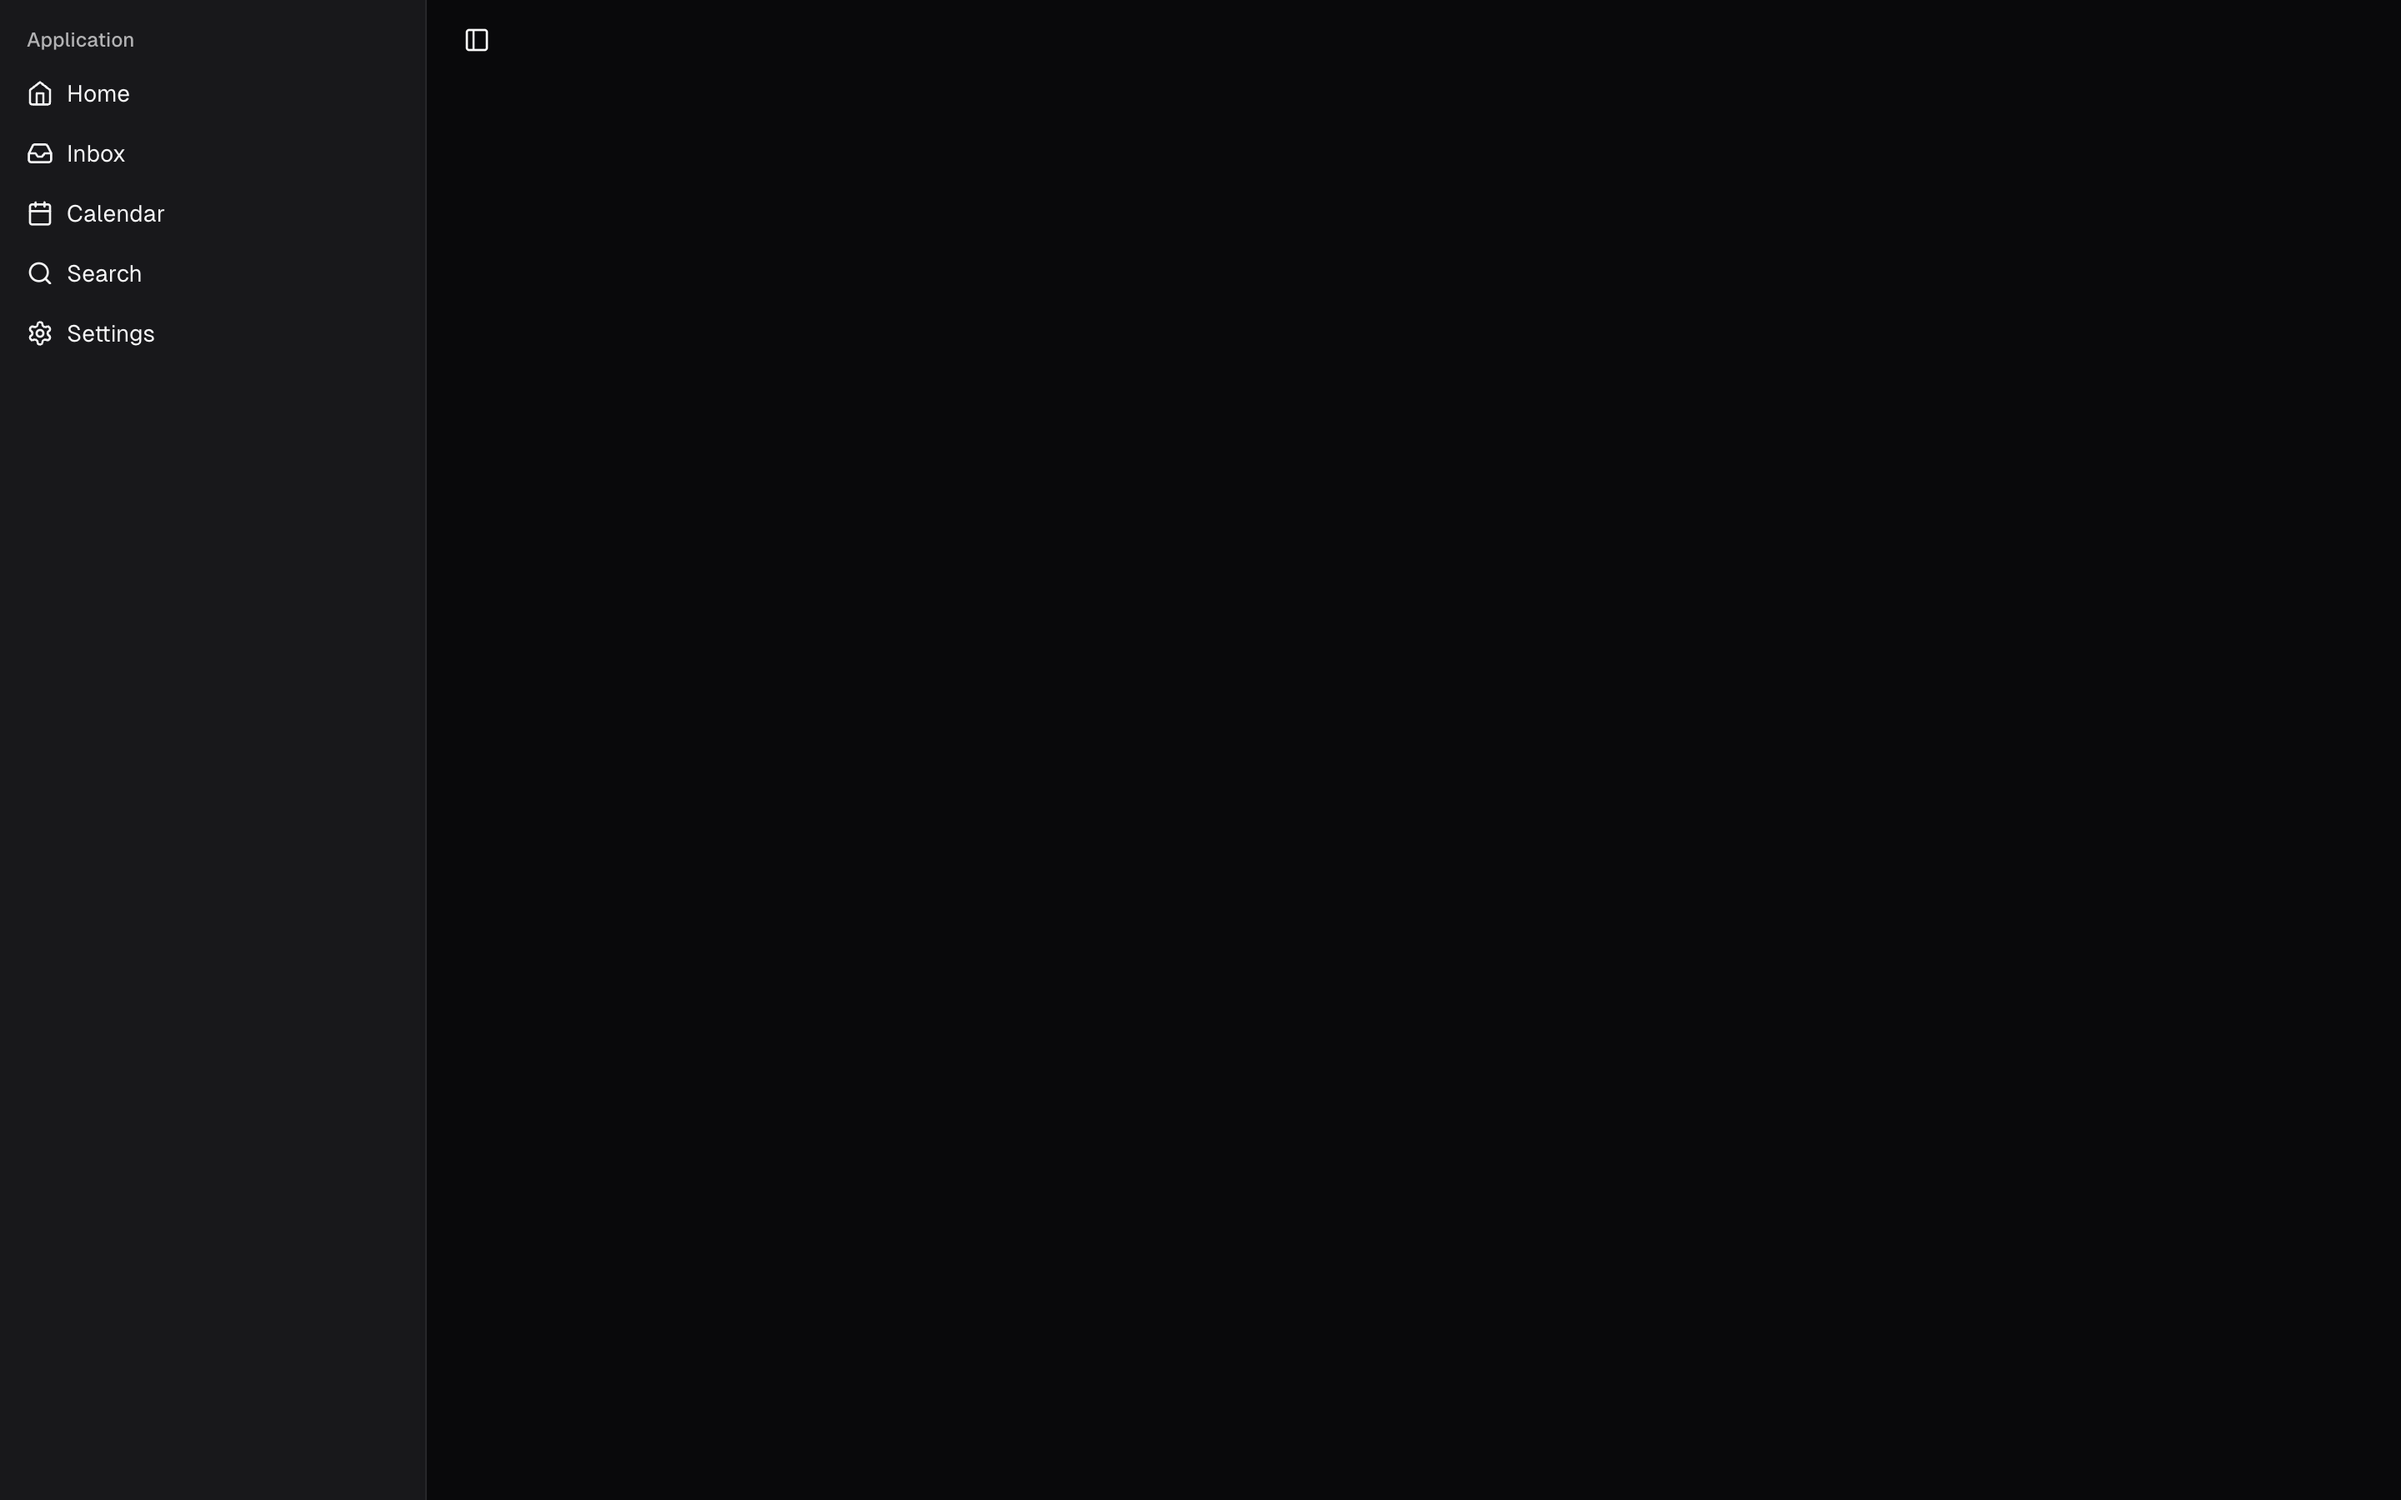
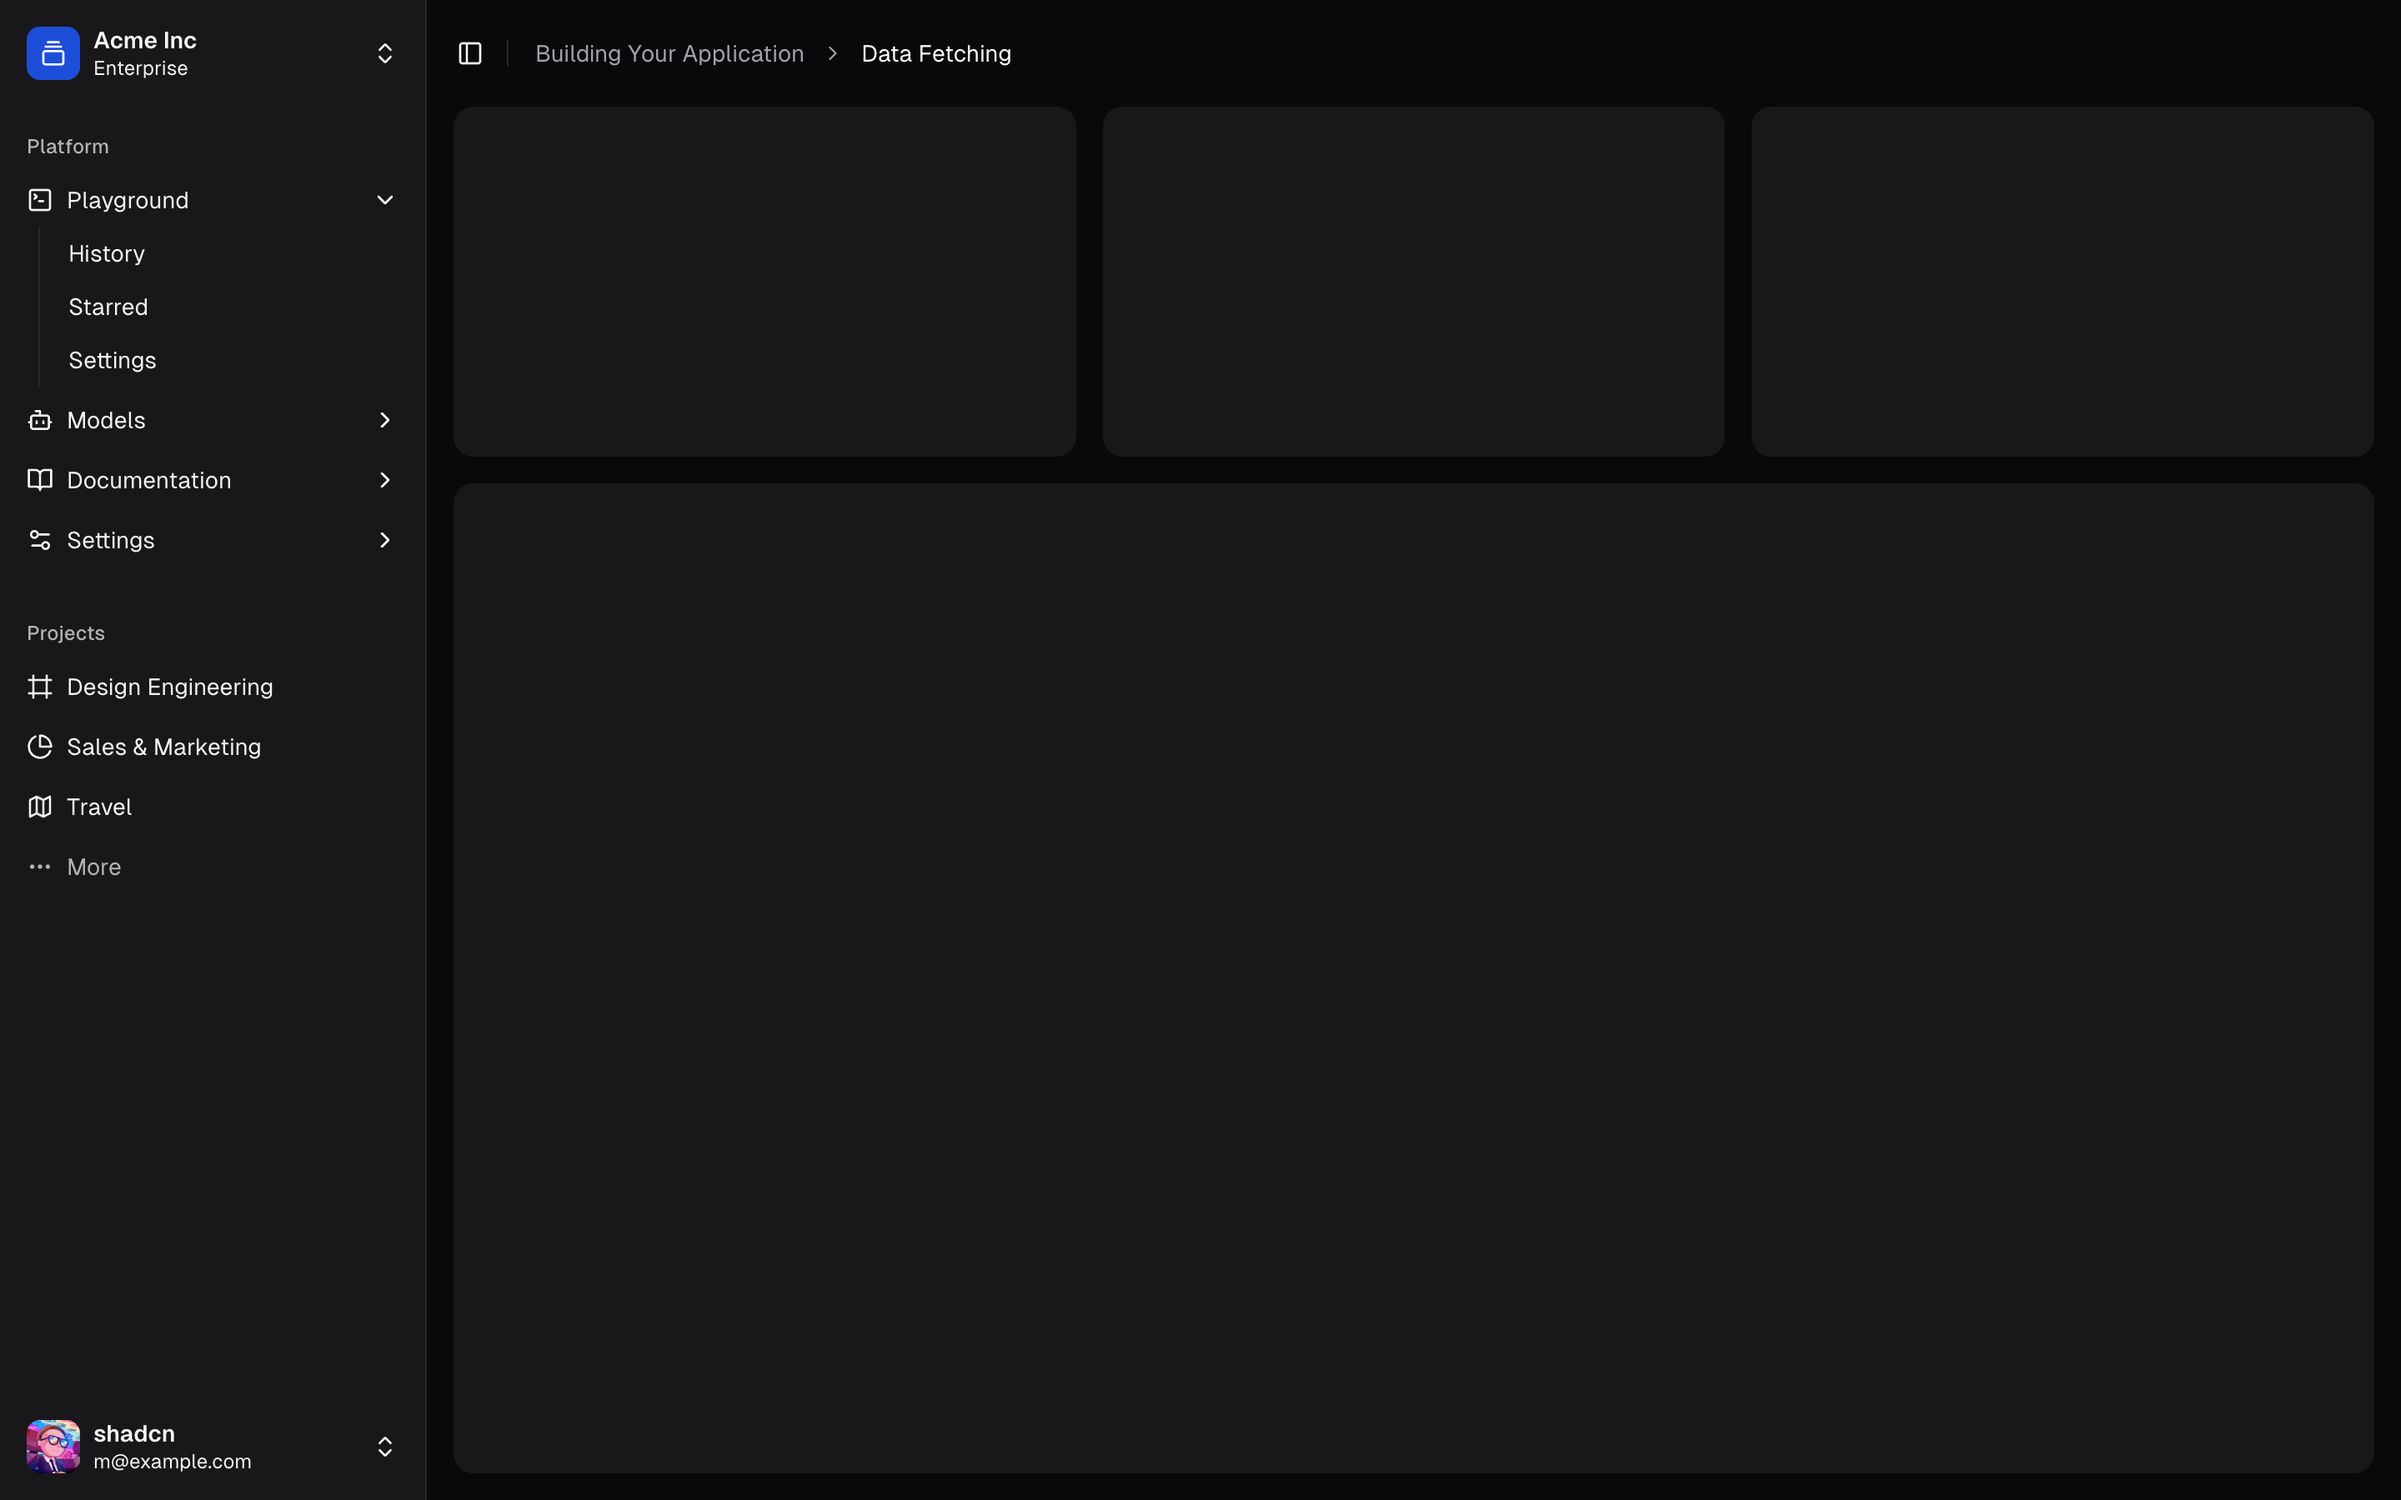
fix(docs): restore sidebar block preview on mobile (#11715)
Mobile previews were requesting screenshots from new-york-v4, which 404.

diff --git a/apps/v4/components/component-preview.tsx b/apps/v4/components/component-preview.tsx
@@ -31,20 +31,23 @@ export function ComponentPreview({
 }) {
   if (type === "block") {
     const content = (
-      <div className="relative mt-6 aspect-[4/2.5] w-full overflow-hidden rounded-2xl border md:-mx-1">
+      <div
+        data-not-typeset
+        className="relative mt-6 aspect-[4/2.5] w-full overflow-hidden rounded-2xl border md:-mx-1"
+      >
         <Image
-          src={`/r/styles/new-york-v4/${name}-light.png`}
+          src={`/r/styles/new-york/${name}-light.png`}
           alt={name}
           width={1440}
           height={900}
-          className="absolute top-0 left-0 z-20 w-[970px] max-w-none bg-background sm:w-[1280px] md:hidden dark:hidden md:dark:hidden"
+          className="absolute top-0 left-0 z-20 h-full w-[1600px] max-w-none bg-background object-cover object-left-top md:hidden dark:hidden md:dark:hidden"
         />
         <Image
-          src={`/r/styles/new-york-v4/${name}-dark.png`}
+          src={`/r/styles/new-york/${name}-dark.png`}
           alt={name}
           width={1440}
           height={900}
-          className="absolute top-0 left-0 z-20 hidden w-[970px] max-w-none bg-background sm:w-[1280px] md:hidden dark:block md:dark:hidden"
+          className="absolute top-0 left-0 z-20 hidden h-full w-[1600px] max-w-none bg-background object-cover object-left-top md:hidden dark:block md:dark:hidden"
         />
         <div className="absolute inset-0 hidden w-[1600px] bg-background md:block">
           <iframe src={`/view/${styleName}/${name}`} className="size-full" />

diff --git a/apps/v4/components/block-viewer.tsx b/apps/v4/components/block-viewer.tsx
@@ -305,7 +305,7 @@ function BlockViewerMobile({ children }: { children: React.ReactNode }) {
       ) : (
         <div className="overflow-hidden rounded-xl border">
           <Image
-            src={`/r/styles/new-york-v4/${item.name}-light.png`}
+            src={`/r/styles/new-york/${item.name}-light.png`}
             alt={item.name}
             data-block={item.name}
             width={1440}
@@ -313,7 +313,7 @@ function BlockViewerMobile({ children }: { children: React.ReactNode }) {
             className="object-cover dark:hidden"
           />
           <Image
-            src={`/r/styles/new-york-v4/${item.name}-dark.png`}
+            src={`/r/styles/new-york/${item.name}-dark.png`}
             alt={item.name}
             data-block={item.name}
             width={1440}
